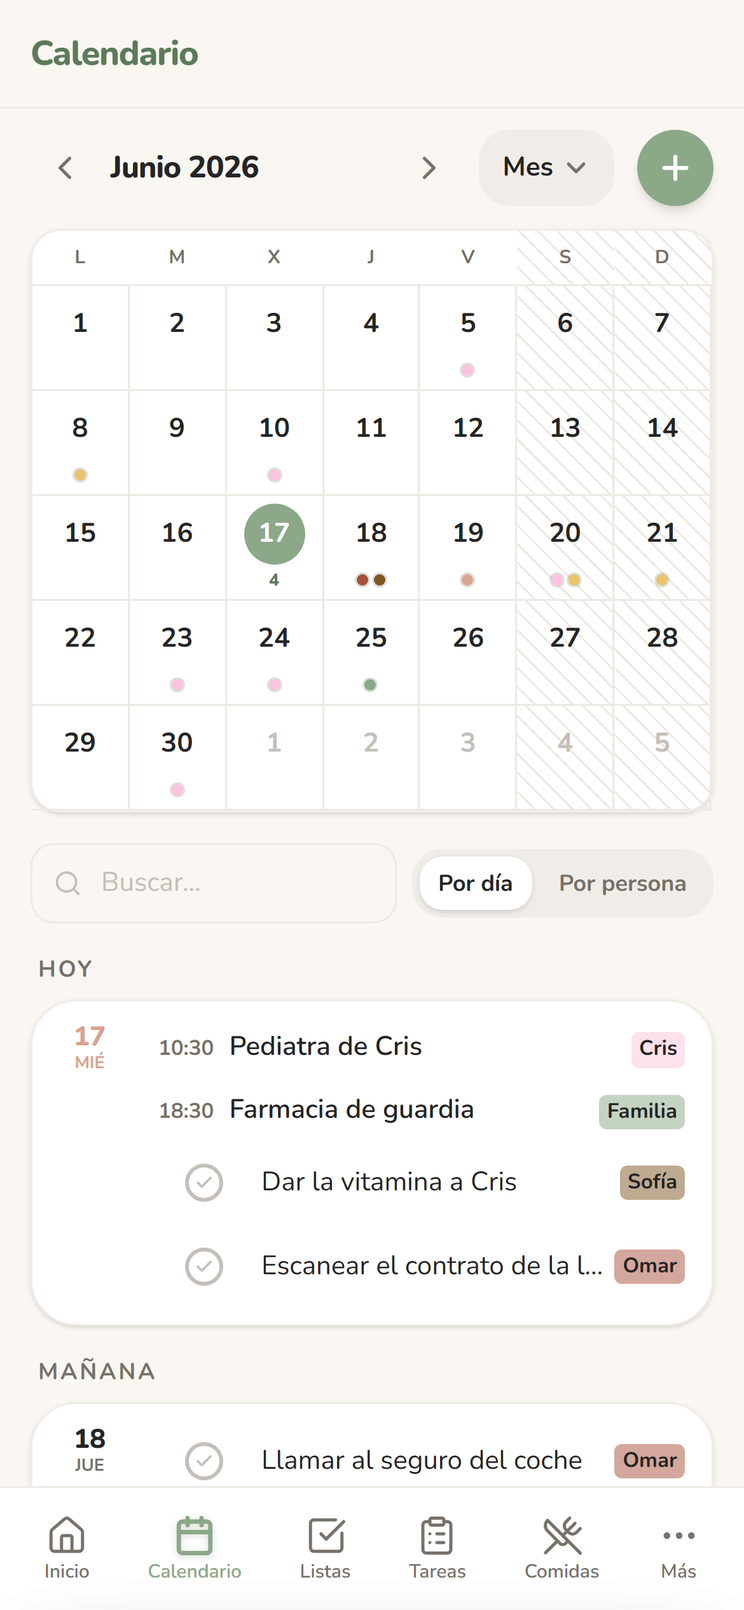
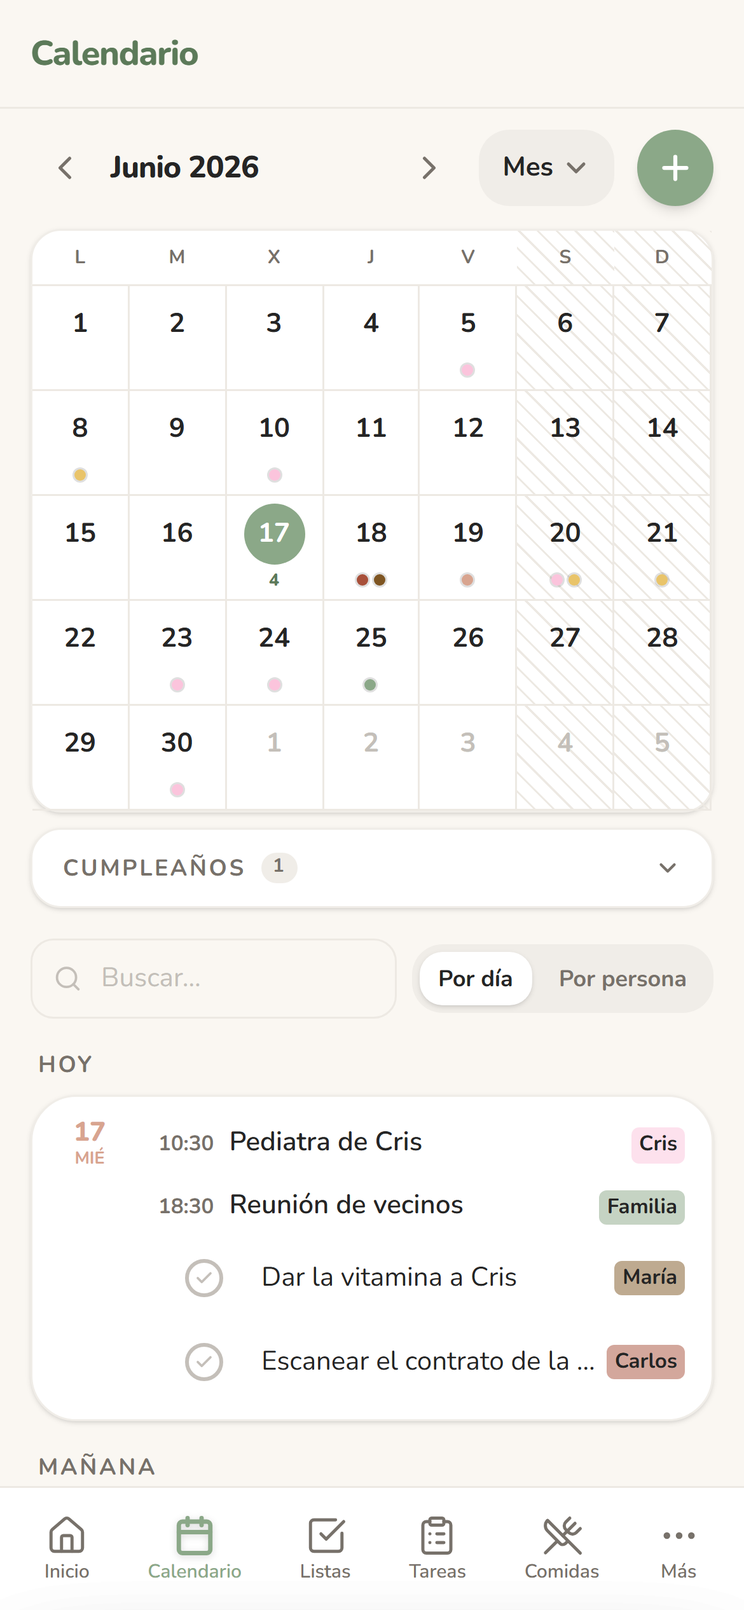
feat: la demo se llena de casa y la portada afina el texto
Repaso de detalle sobre la demo y la portada.

**Los adultos son Carlos y María**, no Omar y Sofía: el nombre del autor no
tiene por qué ser el de la familia de ejemplo.

**Las listas vuelven a ser de cosas.** Al rellenarlas de casa se colaron
tareas dentro («sacar la basura», «ordenar el trastero», «renovar el DNI»),
y una lista con eso dentro es una lista de tareas mal puesta. Ahora son
objetos: bolsas de basura, papel de cocina, pilas, tacos y tornillos. La
lista «Papeleo», que era toda tareas, pasa a ser «Regalos».

**La farmacia de guardia no era un plan de agenda**: es donde vas cuando
hace falta, no algo que se apunta a las 18:30. En su sitio, una reunión de
vecinos.

**Hay un cumpleaños en la demo** (la abuela Marisa, el 22 de junio). El
bloque de cumpleaños de Inicio no tenía datos y por eso no se pintaba nunca:
esa parte de la app no se veía ni usando el modo demo.

**La captura de Comidas es la vista semanal.** En «Hoy» se parecía a
cualquier otra lista; la parrilla de la semana es lo que aporta forma
distinta a la rejilla de la portada.

Y cuatro retoques de texto:

- «cuatro pantallas» decía la sección, y son seis.
- «sin decidirlo cada día a las dos» ahora dice **a las dos de la tarde**.
- Finanzas se cuenta como **planificación y no como contabilidad**: primero
  se decide cuánto queréis gastar y después la app dice cuánto lleváis.
  Poner el gasto por delante lo convertía en un libro de cuentas.
[…]

diff --git a/src/lib/store/db.ts b/src/lib/store/db.ts
@@ -23,12 +23,12 @@ interface DB {
 
 export const db: DB = {
   families: [
-    { id: 'f1', name: 'Familia de Omar, Sofía y Cris', meal_slots: [...ALL_MEAL_SLOTS], created_at: '2026-06-01T00:00:00', updated_at: '2026-06-17T08:00:00' },
+    { id: 'f1', name: 'Familia de Carlos, María y Cris', meal_slots: [...ALL_MEAL_SLOTS], created_at: '2026-06-01T00:00:00', updated_at: '2026-06-17T08:00:00' },
   ],
 
   members: [
-    { id: 'm1', family_id: 'f1', user_id: 'u1', display_name: 'Omar',  avatar_url: null, color: null, role: 'admin',  created_at: '2026-06-01T00:00:00' },
-    { id: 'm2', family_id: 'f1', user_id: 'u2', display_name: 'Sofía', avatar_url: null, color: null, role: 'member', created_at: '2026-06-01T00:00:00' },
+    { id: 'm1', family_id: 'f1', user_id: 'u1', display_name: 'Carlos', avatar_url: null, color: null, role: 'admin',  created_at: '2026-06-01T00:00:00' },
+    { id: 'm2', family_id: 'f1', user_id: 'u2', display_name: 'María', avatar_url: null, color: null, role: 'member', created_at: '2026-06-01T00:00:00' },
   ],
 
   invites: [],
@@ -42,13 +42,14 @@ export const db: DB = {
     { id: 'e02', family_id: 'f1', child_id: null, member_id: null, title: 'ITV del coche',                description: 'Llevar el permiso y el seguro',        start_at: '2026-06-08T09:15:00', end_at: null, all_day: false, kind: 'evento' as const, color: '#E9C46A', birth_year: null, recurrence_group_id: null, created_by: 'u1', created_at: '2026-06-05T13:00:00', updated_at: '2026-06-05T13:00:00' },
     { id: 'e03', family_id: 'f1', child_id: '1', member_id: null,  title: 'Dentista', description: 'Limpieza, la de todos los años',     start_at: '2026-06-10T12:00:00', end_at: null, all_day: false, kind: 'evento' as const, color: null,      birth_year: null, recurrence_group_id: null, created_by: 'u2', created_at: '2026-06-07T09:00:00', updated_at: '2026-06-07T09:00:00' },
     { id: 'e04', family_id: 'f1', child_id: '1', member_id: null,  title: 'Pediatra de Cris',              description: 'Peso, ombligo y dudas de sueño',   start_at: '2026-06-17T10:30:00', end_at: null, all_day: false, kind: 'evento' as const, color: null,      birth_year: null, recurrence_group_id: null, created_by: 'u1', created_at: '2026-06-12T20:00:00', updated_at: '2026-06-12T20:00:00' },
-    { id: 'e05', family_id: 'f1', child_id: null, member_id: null, title: 'Farmacia de guardia',           description: 'Recoger vitamina D',               start_at: '2026-06-17T18:30:00', end_at: null, all_day: false, kind: 'evento' as const, color: '#8BA888', birth_year: null, recurrence_group_id: null, created_by: 'u1', created_at: '2026-06-16T21:00:00', updated_at: '2026-06-16T21:00:00' },
+    { id: 'e05', family_id: 'f1', child_id: null, member_id: null, title: 'Reunión de vecinos',            description: 'En el portal, lo del ascensor',               start_at: '2026-06-17T18:30:00', end_at: null, all_day: false, kind: 'evento' as const, color: '#8BA888', birth_year: null, recurrence_group_id: null, created_by: 'u1', created_at: '2026-06-16T21:00:00', updated_at: '2026-06-16T21:00:00' },
     { id: 'e06', family_id: 'f1', child_id: null, member_id: null, title: 'Abuelos vienen a merendar',     description: 'Visita corta, traer bizcocho',     start_at: '2026-06-19T17:30:00', end_at: null, all_day: false, kind: 'evento' as const, color: '#D8A48F', birth_year: null, recurrence_group_id: null, created_by: 'u2', created_at: '2026-06-15T11:00:00', updated_at: '2026-06-15T11:00:00' },
     { id: 'e07', family_id: 'f1', child_id: '1', member_id: null,  title: 'Cena con Marta y Javi',        description: 'En casa, traen ellos el postre',            start_at: '2026-06-20T09:30:00', end_at: null, all_day: false, kind: 'evento' as const, color: null,      birth_year: null, recurrence_group_id: null, created_by: 'u1', created_at: '2026-06-16T08:30:00', updated_at: '2026-06-16T08:30:00' },
     { id: 'e08', family_id: 'f1', child_id: null, member_id: null, title: 'Compra grande online',          description: 'La compra de la semana y cosas de casa', start_at: '2026-06-21T11:00:00', end_at: null, all_day: false, kind: 'evento' as const, color: '#E9C46A', birth_year: null, recurrence_group_id: null, created_by: 'u1', created_at: '2026-06-16T19:00:00', updated_at: '2026-06-16T19:00:00' },
     { id: 'e09', family_id: 'f1', child_id: '1', member_id: null,  title: 'Recoger el paquete',            description: 'En la oficina de correos, antes de las 14:00',       start_at: '2026-06-23T11:45:00', end_at: null, all_day: false, kind: 'evento' as const, color: null,      birth_year: null, recurrence_group_id: null, created_by: 'u2', created_at: '2026-06-17T08:00:00', updated_at: '2026-06-17T08:00:00' },
     { id: 'e10', family_id: 'f1', child_id: null, member_id: null, title: 'Renovar el seguro del coche',  description: 'Mirar si compensa cambiar de compañía',         start_at: '2026-06-25T09:00:00', end_at: null, all_day: false, kind: 'evento' as const, color: '#8BA888', birth_year: null, recurrence_group_id: null, created_by: 'u1', created_at: '2026-06-17T08:05:00', updated_at: '2026-06-17T08:05:00' },
     { id: 'e11', family_id: 'f1', child_id: '1', member_id: null,  title: 'Control de peso de Cris',              description: 'Consulta de enfermería pediátrica', start_at: '2026-06-30T10:15:00', end_at: null, all_day: false, kind: 'evento' as const, color: null,      birth_year: null, recurrence_group_id: null, created_by: 'u1', created_at: '2026-06-17T08:10:00', updated_at: '2026-06-17T08:10:00' },
+    { id: 'e13', family_id: 'f1', child_id: null, member_id: null, title: 'Cumpleaños de la abuela Marisa', description: 'Comemos en su casa',           start_at: '2026-06-22T00:00:00', end_at: null, all_day: true, kind: 'cumple' as const,   color: '#D8A48F', birth_year: 1958, recurrence_group_id: null, created_by: 'u2', created_at: '2026-06-17T08:20:00', updated_at: '2026-06-17T08:20:00' },
     { id: 'e12', family_id: 'f1', child_id: null, member_id: null, title: 'Cumplemes de Cris',              description: 'Primer mes en casa',               start_at: '2026-07-03T00:00:00', end_at: null, all_day: true, kind: 'evento' as const,  color: '#D8A48F', birth_year: null, recurrence_group_id: null, created_by: 'u2', created_at: '2026-06-17T08:15:00', updated_at: '2026-06-17T08:15:00' },
   ],
 
@@ -67,7 +68,7 @@ export const db: DB = {
     { id: 'l1', family_id: 'f1', name: 'Compra',          emoji: '🛒', color: null, created_by: 'u1', created_at: '2026-06-05T00:00:00', updated_at: '2026-06-17T08:00:00' },
     { id: 'l2', family_id: 'f1', name: 'Farmacia',        emoji: '💊', color: null, created_by: 'u1', created_at: '2026-06-05T00:00:00', updated_at: '2026-06-17T08:00:00' },
     { id: 'l3', family_id: 'f1', name: 'Casa',            emoji: '🧺', color: null, created_by: 'u2', created_at: '2026-06-05T00:00:00', updated_at: '2026-06-17T08:00:00' },
-    { id: 'l4', family_id: 'f1', name: 'Papeleo',         emoji: '📋', color: null, created_by: 'u1', created_at: '2026-06-08T00:00:00', updated_at: '2026-06-17T08:00:00' },
+    { id: 'l4', family_id: 'f1', name: 'Regalos',         emoji: '🎁', color: null, created_by: 'u1', created_at: '2026-06-08T00:00:00', updated_at: '2026-06-17T08:00:00' },
     { id: 'l5', family_id: 'f1', name: 'Limpieza',        emoji: '🧽', color: null, created_by: 'u2', created_at: '2026-06-09T00:00:00', updated_at: '2026-06-17T08:00:00' },
     { id: 'l6', family_id: 'f1', name: 'Bricolaje',       emoji: '🔧', color: null, created_by: 'u1', created_at: '2026-06-09T00:00:00', updated_at: '2026-06-17T08:00:00' },
   ],
@@ -80,12 +81,12 @@ export const db: DB = {
     { id: 'li5',  list_id: 'l2', family_id: 'f1', text: 'Vitamina de Cris',             quantity: 1, completed: false, completed_at: null,                  completed_by: null, sort_order: 0, created_by: 'u2', created_at: '2026-06-16T00:00:00' },
     { id: 'li6',  list_id: 'l2', family_id: 'f1', text: 'Suero fisiológico monodosis',  quantity: 4, completed: false, completed_at: null,                  completed_by: null, sort_order: 1, created_by: 'u1', created_at: '2026-06-16T00:00:00' },
     { id: 'li7',  list_id: 'l2', family_id: 'f1', text: 'Gasas estériles',              quantity: 1, completed: true,  completed_at: '2026-06-15T12:00:00', completed_by: 'u1', sort_order: 2, created_by: 'u1', created_at: '2026-06-15T00:00:00' },
-    { id: 'li8',  list_id: 'l3', family_id: 'f1', text: 'Bajar la ropa del tendedero',  quantity: 1, completed: false, completed_at: null,                  completed_by: null, sort_order: 0, created_by: 'u2', created_at: '2026-06-16T00:00:00' },
-    { id: 'li9',  list_id: 'l3', family_id: 'f1', text: 'Ordenar el trastero',          quantity: 1, completed: false, completed_at: null,                  completed_by: null, sort_order: 1, created_by: 'u1', created_at: '2026-06-16T00:00:00' },
-    { id: 'li10', list_id: 'l3', family_id: 'f1', text: 'Sacar la basura',              quantity: 1, completed: true,  completed_at: '2026-06-17T07:30:00', completed_by: 'u1', sort_order: 2, created_by: 'u1', created_at: '2026-06-17T00:00:00' },
-    { id: 'li11', list_id: 'l4', family_id: 'f1', text: 'Escanear el seguro del coche', quantity: 1, completed: false, completed_at: null,                  completed_by: null, sort_order: 0, created_by: 'u1', created_at: '2026-06-17T00:00:00' },
-    { id: 'li12', list_id: 'l4', family_id: 'f1', text: 'Renovar el DNI',               quantity: 1, completed: false, completed_at: null,                  completed_by: null, sort_order: 1, created_by: 'u1', created_at: '2026-06-17T00:00:00' },
-    { id: 'li13', list_id: 'l4', family_id: 'f1', text: 'Guardar la factura de la caldera', quantity: 1, completed: true, completed_at: '2026-06-10T18:00:00', completed_by: 'u2', sort_order: 2, created_by: 'u2', created_at: '2026-06-09T00:00:00' },
+    { id: 'li8',  list_id: 'l3', family_id: 'f1', text: 'Bolsas de basura',             quantity: 1, completed: false, completed_at: null,                  completed_by: null, sort_order: 0, created_by: 'u2', created_at: '2026-06-16T00:00:00' },
+    { id: 'li9',  list_id: 'l3', family_id: 'f1', text: 'Papel de cocina',              quantity: 2, completed: false, completed_at: null,                  completed_by: null, sort_order: 1, created_by: 'u1', created_at: '2026-06-16T00:00:00' },
+    { id: 'li10', list_id: 'l3', family_id: 'f1', text: 'Pilas AA',                     quantity: 4, completed: true,  completed_at: '2026-06-17T07:30:00', completed_by: 'u1', sort_order: 2, created_by: 'u1', created_at: '2026-06-17T00:00:00' },
+    { id: 'li11', list_id: 'l4', family_id: 'f1', text: 'Regalo del cumple de la abuela', quantity: 1, completed: false, completed_at: null,                  completed_by: null, sort_order: 0, created_by: 'u1', created_at: '2026-06-17T00:00:00' },
+    { id: 'li12', list_id: 'l4', family_id: 'f1', text: 'Papel de regalo',              quantity: 1, completed: false, completed_at: null,                  completed_by: null, sort_order: 1, created_by: 'u1', created_at: '2026-06-17T00:00:00' },
+    { id: 'li13', list_id: 'l4', family_id: 'f1', text: 'Velas de tarta',            quantity: 1, completed: true, completed_at: '2026-06-10T18:00:00', completed_by: 'u2', sort_order: 2, created_by: 'u2', created_at: '2026-06-09T00:00:00' },
     { id: 'li14', list_id: 'l5', family_id: 'f1', text: 'Recambios del aspirador',       quantity: 1, completed: false, completed_at: null,                  completed_by: null, sort_order: 0, created_by: 'u2', created_at: '2026-06-17T00:00:00' },
     { id: 'li15', list_id: 'l5', family_id: 'f1', text: 'Limpiacristales',              quantity: 1, completed: false, completed_at: null,                  completed_by: null, sort_order: 1, created_by: 'u2', created_at: '2026-06-17T00:00:00' },
     { id: 'li16', list_id: 'l5', family_id: 'f1', text: 'Bayetas de microfibra',        quantity: 1, completed: true,  completed_at: '2026-06-16T10:00:00', completed_by: 'u1', sort_order: 2, created_by: 'u1', created_at: '2026-06-15T00:00:00' },
@@ -148,6 +149,6 @@ export const db: DB = {
     { id: 'd2', family_id: 'f1', child_id: '1', member_id: null,  name: 'Cartilla de salud de Cris',     description: 'Revisiones y vacunas',            category: 'salud',    storage_path: 'mock/cartilla-salud-cris.pdf', storage_provider: 'google_drive', storage_owner: 'u1',    mime_type: 'application/pdf', size_bytes: 245760, expires_on: null, created_by: 'u2', created_at: '2026-06-05T13:30:00', updated_at: '2026-06-05T13:30:00' },
     { id: 'd3', family_id: 'f1', child_id: null, member_id: null, name: 'Seguro del coche',              description: 'Póliza y recibo'    ,             category: 'personal', storage_path: 'mock/seguro-coche.pdf', storage_provider: 'google_drive', storage_owner: 'u1',       mime_type: 'application/pdf', size_bytes: 286720, expires_on: null, created_by: 'u1', created_at: '2026-06-10T18:00:00', updated_at: '2026-06-10T18:00:00' },
     { id: 'd4', family_id: 'f1', child_id: null, member_id: null, name: 'Libro de familia',              description: null,                              category: 'personal', storage_path: 'mock/libro-familia.pdf', storage_provider: 'google_drive', storage_owner: 'u1',         mime_type: 'application/pdf', size_bytes: 512000, expires_on: null, created_by: 'u1', created_at: '2026-06-11T10:00:00', updated_at: '2026-06-11T10:00:00' },
-    { id: 'd5', family_id: 'f1', child_id: null, member_id: null, name: 'DNI Omar',                      description: 'Documento de Omar',               category: 'personal', storage_path: 'mock/dni-omar.jpg', storage_provider: 'google_drive', storage_owner: 'u1',              mime_type: 'image/jpeg',      size_bytes: 132096, expires_on: '2026-08-20', created_by: 'u1', created_at: '2026-06-01T00:00:00', updated_at: '2026-06-01T00:00:00' },
+    { id: 'd5', family_id: 'f1', child_id: null, member_id: null, name: 'DNI de Carlos',                 description: 'Caduca este verano',               category: 'personal', storage_path: 'mock/dni-carlos.jpg', storage_provider: 'google_drive', storage_owner: 'u1',              mime_type: 'image/jpeg',      size_bytes: 132096, expires_on: '2026-08-20', created_by: 'u1', created_at: '2026-06-01T00:00:00', updated_at: '2026-06-01T00:00:00' },
   ],
 }

diff --git a/src/components/landing/LandingPage.tsx b/src/components/landing/LandingPage.tsx
@@ -5,12 +5,12 @@ import {
   FileText,
   ListChecks,
   NotebookText,
-  ShieldCheck,
   Smartphone,
   UtensilsCrossed,
   Wallet,
 } from 'lucide-react'
 import { AuthCard } from '@/components/auth/AuthCard'
+import { Garantias } from '@/components/ui/Garantias'
 import { DayIllustration } from '@/components/home/DayIllustration'
 import { getDayPeriodFromHour } from '@/lib/date-utils'
 
@@ -50,13 +50,10 @@ const INCLINACION = ['lg:-rotate-[1.1deg]', 'lg:rotate-[0.9deg]', 'lg:rotate-[0.
  * hay en la página fuera de los botones. Va en las siete por igual —dentro y
  * fuera de bloque—, que es lo que las hace parecer hermanas.
  */
-function TituloSeccion({ id, encima, children }: { id?: string; encima?: string; children: React.ReactNode }) {
+function TituloSeccion({ id, children }: { id?: string; children: React.ReactNode }) {
   return (
     <div className="mb-5">
       <span aria-hidden className="mb-3 block h-1 w-9 rounded-full bg-primary" />
-      {encima && (
-        <p className="mb-2 text-[11px] font-bold uppercase tracking-[0.18em] text-muted-soft">{encima}</p>
-      )}
       <h2 id={id} className={TITULO}>{children}</h2>
     </div>
   )
@@ -112,8 +109,8 @@ const CAPTURAS = [
   { archivo: 'inicio',     titulo: 'Inicio',      texto: 'Lo de hoy: lo que hay, lo que falta y lo que se come.' },
   { archivo: 'calendario', titulo: 'El mes',      texto: 'Los días con algo apuntado, y el de hoy abierto debajo.' },
   { archivo: 'listas',     titulo: 'Listas',      texto: 'La compra y lo de casa, en marcha desde cualquier móvil.' },
-  { archivo: 'comidas',    titulo: 'Comidas',     texto: 'El menú de la semana, sin decidirlo cada día a las dos.' },
-  { archivo: 'finanzas',   titulo: 'Finanzas',    texto: 'El gasto del mes, los topes y quién ha puesto cuánto.' },
+  { archivo: 'comidas',    titulo: 'Comidas',     texto: 'El menú de la semana, sin decidirlo cada día a las dos de la tarde.' },
+  { archivo: 'finanzas',   titulo: 'Finanzas',    texto: 'Lo que decidisteis gastar, lo que lleváis y quién ha puesto qué.' },
   { archivo: 'documentos', titulo: 'Documentos',  texto: 'El seguro, la cartilla, el libro de familia. Y qué caduca.' },
 ]
 
@@ -146,12 +143,12 @@ const FUNCIONES = [
   {
     icon: UtensilsCrossed,
     titulo: 'Comidas',
-    texto: 'El menú de la semana, para no decidirlo cada día a las dos.',
+    texto: 'El menú de la semana, para no decidirlo cada día a las dos de la tarde.',
   },
   {
     icon: Wallet,
     titulo: 'Finanzas',
-    texto: 'El gasto del mes por categorías, quién ha puesto cuánto y los presupuestos que os pasan de fuera.',
+    texto: 'Decidís cuánto queréis gastar al mes en cada cosa y la app va diciendo cuánto lleváis, quién ha puesto qué y si os estáis pasando. Los presupuestos que os pasan de fuera se guardan al lado, para compararlos antes de decidir.',
   },
   {
     icon: NotebookText,
@@ -301,22 +298,7 @@ export function LandingPage() {
                 todo junto y a un vistazo.
               </p>
 
-              {/* Quien llega de fuera tiene una pregunta antes que ninguna otra
-                  —quién ve mis cosas— y estaba contestada en las Preguntas, a
-                  tres mil píxeles de aquí. Tres palabras arriba valen más que un
-                  párrafo abajo. Los puntos son `span` aparte y no parte del
-                  texto: así el lector de pantalla lee tres cosas y no una frase
-                  con puntos en medio. */}
-              <ul className="mt-5 flex flex-wrap items-center gap-x-3 gap-y-1 text-sm font-semibold text-ink">
-                <li className="inline-flex items-center gap-1.5">
-                  <ShieldCheck size={15} strokeWidth={2.4} className="text-primary-strong" />
-                  Privado para tu familia
-                </li>
-                <li aria-hidden className="text-muted-soft">·</li>
-                <li>Gratis</li>
-                <li aria-hidden className="text-muted-soft">·</li>
-                <li>Sin anuncios</li>
-              </ul>
+              <Garantias className="mt-5" />
             </div>
           </div>
         </section>
@@ -343,7 +325,7 @@ export function LandingPage() {
           <section id="asi-se-ve" className={`scroll-mt-20 bg-surface ${BLOQUE}`}>
             <TituloSeccion>Así se ve</TituloSeccion>
             <p className="mt-3 max-w-xl text-sm leading-relaxed text-muted">
-              No son maquetas: son cuatro pantallas de <Marca /> tal cual se ven, con la familia de
+              No son maquetas: son seis pantallas de <Marca /> tal cual se ven, con la familia de
               ejemplo que trae la app.
             </p>
 
@@ -469,7 +451,7 @@ export function LandingPage() {
               que hace que esto no parezca escrito por una máquina es justo lo que
               un corrector querría arreglar. */}
           <section className={`border border-line bg-warm ${BLOQUE}`}>
-            <TituloSeccion encima="Una nota de quien la hizo">Por qué existe Farpi</TituloSeccion>
+            <TituloSeccion>Por qué existe Farpi</TituloSeccion>
 
             <div className="max-w-xl space-y-4 text-[0.9375rem] leading-[1.75] text-muted">
               <p>

diff --git a/e2e/runtime.spec.ts b/e2e/runtime.spec.ts
@@ -187,17 +187,19 @@ test('un evento se puede asignar a un adulto y se ve quién es', async ({ page }
 
   const dialogo = page.getByRole('dialog', { name: 'Apuntar en el calendario' })
   await expect(dialogo.getByRole('button', { name: 'Familia', exact: true })).toBeVisible()
-  await expect(dialogo.getByRole('button', { name: 'Omar', exact: true })).toBeVisible()
+  await expect(dialogo.getByRole('button', { name: 'Carlos', exact: true })).toBeVisible()
 
-  await page.locator('#event-title').fill('Dentista')
-  await dialogo.getByRole('button', { name: 'Sofía', exact: true }).click()
+  // Un título que no exista ya en la demo: desde que hay un "Dentista" apuntado
+  // el 10 de junio, buscar por ese nombre engancharía los dos.
+  await page.locator('#event-title').fill('Fisioterapeuta')
+  await dialogo.getByRole('button', { name: 'María', exact: true }).click()
   await page.getByRole('button', { name: 'Apuntar', exact: true }).click()
 
   // En la agenda, el evento aparece con el nombre de la persona asignada.
   // (En la celda del día también, pero ahí es un tooltip que solo se ve al pasar
   // el ratón, así que no sirve para comprobarlo.)
-  await expect(page.getByRole('button', { name: /Dentista/ })).toBeVisible()
-  await expect(page.getByRole('button', { name: /Dentista.*Sofía/ })).toBeVisible()
+  await expect(page.getByRole('button', { name: /Fisioterapeuta/ })).toBeVisible()
+  await expect(page.getByRole('button', { name: /Fisioterapeuta.*María/ })).toBeVisible()
 })
 
 // Vacaciones: un evento de varios días. Cubre que el formulario cambia de forma
@@ -395,13 +397,13 @@ test('una tarea se puede asignar a alguien y se ve de quién es', async ({ page 
   await page.getByRole('button', { name: 'Nueva tarea' }).click()
   const sheet = page.getByRole('dialog', { name: 'Nueva tarea' })
   await page.locator('#task-title').fill('Regar las plantas')
-  await sheet.getByRole('button', { name: 'Sofía' }).click()
+  await sheet.getByRole('button', { name: 'María' }).click()
   await page.getByRole('button', { name: 'Crear tarea' }).click()
   await page.waitForTimeout(400)
 
   // La tarea aparece con el nombre de quien la lleva.
   const fila = page.locator('div').filter({ hasText: /^Regar las plantas/ }).first()
-  await expect(fila).toContainText('Sofía')
+  await expect(fila).toContainText('María')
 })
 
 // Con el tiempo la lista se hace larga y "¿apunté lo de la vitamina?" solo se
@@ -466,7 +468,7 @@ test('las notas fijadas salen las primeras', async ({ page }) => {
 })
 
 // Un papel caducado no avisa por su cuenta: el DNI vale hasta que un día no
-// vale. En la demo, el DNI de Omar caduca el 20 de agosto de 2026.
+// vale. En la demo, el DNI de Carlos caduca el 20 de agosto de 2026.
 test('un documento con caducidad lo dice en su tarjeta', async ({ page }) => {
   await page.goto('/docs')
   await page.waitForTimeout(700)
@@ -668,7 +670,7 @@ test('un descanso marca todos los días de su rango', async ({ page }) => {
 
   await page.locator('#event-date').fill('2026-08-11')
   await page.locator('#event-end-date').fill('2026-08-12')
-  await page.getByRole('button', { name: 'Sofía' }).click()
+  await page.getByRole('button', { name: 'María' }).click()
   await page.locator('button[type="submit"][form="event-form"]').click()
   await page.waitForTimeout(600)
 
@@ -677,7 +679,7 @@ test('un descanso marca todos los días de su rango', async ({ page }) => {
 
   // Y una vez en el bloque, con nombre y fechas: dos días no son dos filas.
   await abrirBloque(page, 'Vacaciones y descansos')
-  await expect(page.getByRole('button', { name: /Sofía descansa/ })).toHaveCount(1)
+  await expect(page.getByRole('button', { name: /María descansa/ })).toHaveCount(1)
 })
 
 // Las unidades de un ítem se suben y se bajan **desde la propia fila**, sin abrir

diff --git a/e2e/smoke.spec.ts b/e2e/smoke.spec.ts
@@ -95,7 +95,7 @@ test('una familia creada se puede eliminar y la app vuelve a la anterior', async
   await dialog.getByRole('button', { name: 'Confirmar: se borra todo' }).click()
 
   await expect(page.getByText('Familia de prueba')).toHaveCount(0)
-  await expect(page.getByText('Familia de Omar, Sofía y Cris')).toBeVisible()
+  await expect(page.getByText('Familia de Carlos, María y Cris')).toBeVisible()
 })
 
 // El segundo eje de la agenda. Se prueba en el navegador y no en unitarios
@@ -112,7 +112,7 @@ test('la agenda se puede agrupar por persona', async ({ page }) => {
   await expect(porPersona).toHaveAttribute('aria-pressed', 'true')
 
   // Cada persona con algo es una sección con su nombre. La familia de demo
-  // tiene tareas repartidas, así que "Familia" y "Omar" tienen grupo propio.
+  // tiene tareas repartidas, así que "Familia" y "Carlos" tienen grupo propio.
   await expect(page.getByRole('region', { name: 'Agenda por persona' })).toBeVisible()
   await expect(page.getByRole('region', { name: 'Familia' })).toBeVisible()
 
@@ -121,8 +121,8 @@ test('la agenda se puede agrupar por persona', async ({ page }) => {
   // no en el de la familia, donde lo de todos nunca llevó etiqueta y la cuenta
   // daría uno aunque las filas siguieran diciendo el nombre. Contarlas, además,
   // porque buscar el texto tampoco valdría: el rótulo va en mayúsculas por CSS
-  // y una comparación con "Omar" pasaría sin mirar las filas.
-  await expect(page.getByRole('region', { name: 'Omar' }).locator('.etiqueta-persona')).toHaveCount(1)
+  // y una comparación con "Carlos" pasaría sin mirar las filas.
+  await expect(page.getByRole('region', { name: 'Carlos' }).locator('.etiqueta-persona')).toHaveCount(1)
 })
 
 // El botón de guardar del sheet del calendario, por lo que es y no por lo que

diff --git a/e2e/escritorio.spec.ts b/e2e/escritorio.spec.ts
@@ -113,7 +113,7 @@ test.describe('escritorio a 1440 px', () => {
     // El pie: el nombre de quien mira y Ajustes, que es el único camino a
     // Ajustes en escritorio. Es una fila y no un menú que abrir, así que se
     // comprueba que lleva directa a la pantalla, que abre en Familia.
-    await expect(lateral.getByText('Omar')).toBeVisible()
+    await expect(lateral.getByText('Carlos')).toBeVisible()
     await lateral.getByRole('link', { name: 'Ajustes' }).click()
     await expect(page).toHaveURL(/\/settings/)
     await expect(page.getByRole('tab', { name: 'Familia' })).toHaveAttribute('aria-selected', 'true')
@@ -202,7 +202,7 @@ test.describe('escritorio a 1440 px', () => {
     await page.locator('#event-kind').selectOption('descanso')
     await page.locator('#event-date').fill('2026-08-11')
     await page.locator('#event-end-date').fill('2026-08-12')
-    await page.getByRole('button', { name: 'Sofía' }).click()
+    await page.getByRole('button', { name: 'María' }).click()
     await page.locator(GUARDAR_EVENTO).click()
     await page.waitForTimeout(700)
 
@@ -216,9 +216,9 @@ test.describe('escritorio a 1440 px', () => {
 
     // Y el nombre sale una sola vez, en "Vacaciones y descansos", que nace
     // plegado: hasta que no se abre, del bloque solo se ve el título.
-    await expect(page.getByRole('button', { name: /Sofía descansa/ })).toHaveCount(0)
+    await expect(page.getByRole('button', { name: /María descansa/ })).toHaveCount(0)
     await abrirBloque(page, 'Vacaciones y descansos')
-    await expect(page.getByRole('button', { name: /Sofía descansa/ })).toHaveCount(1)
+    await expect(page.getByRole('button', { name: /María descansa/ })).toHaveCount(1)
   })
 
   // Un festivo se apunta como los otros tres tipos y se pinta en la celda con su

diff --git a/src/components/ui/Garantias.tsx b/src/components/ui/Garantias.tsx
@@ -1,0 +1,29 @@
+import { ShieldCheck } from 'lucide-react'
+
+/**
+ * Las tres cosas que pregunta quien llega de fuera antes que ninguna otra:
+ * quién ve mis datos, cuánto cuesta y si me van a poner anuncios.
+ *
+ * Sale **dos veces en la portada**, bajo el titular y bajo el formulario, y una
+ * en la pantalla de login. No es un descuido: son los dos sitios donde alguien
+ * está a punto de escribir su correo, y la respuesta tiene que estar donde se
+ * duda, no en un apartado más abajo. Antes vivía dentro de `AuthCard` como una
+ * frase de letra pequeña que no leía nadie.
+ *
+ * Los puntos son elementos aparte y marcados como decorativos: así quien usa un
+ * lector de pantalla oye tres cosas y no una frase con puntos en medio.
+ */
+export function Garantias({ className = '' }: { className?: string }) {
+  return (
+    <ul className={`flex flex-wrap items-center gap-x-3 gap-y-1 text-sm font-semibold text-ink ${className}`}>
+      <li className="inline-flex items-center gap-1.5">
+        <ShieldCheck size={15} strokeWidth={2.4} className="flex-shrink-0 text-primary-strong" />
+        Privado para tu familia
+      </li>
+      <li aria-hidden className="text-muted-soft">·</li>
+      <li>Gratis</li>
+      <li aria-hidden className="text-muted-soft">·</li>
+      <li>Sin anuncios</li>
+    </ul>
+  )
+}

diff --git a/src/components/auth/AuthCard.tsx b/src/components/auth/AuthCard.tsx
@@ -7,6 +7,7 @@ import { createClient, IS_DEMO_MODE } from '@/lib/supabase/client'
 import { isAuthProviderEnabled } from '@/lib/supabase/auth-providers'
 import { Button } from '@/components/ui/Button'
 import { Field } from '@/components/ui/Field'
+import { Garantias } from '@/components/ui/Garantias'
 
 export type AuthMode = 'signin' | 'signup'
 
@@ -320,9 +321,9 @@ export function AuthCard({ modoInicial }: { modoInicial: AuthMode }) {
         </div>
       )}
 
-      <p className="mt-5 text-center text-[11px] font-medium text-muted-soft">
-        Farpi es gratuito y privado para tu familia.
-      </p>
+      {/* Debajo del formulario, que es donde se duda: quien está a punto de
+          escribir su correo quiere saber quién lo va a ver y si esto cuesta. */}
+      <Garantias className="mt-5 justify-center" />
 
       <style jsx>{`
         .form-input {

diff --git a/docs/project-status.md b/docs/project-status.md
@@ -152,13 +152,21 @@ La app está en producción, en uso diario por la familia y probada en un móvil
   - **Las capturas, escalonadas y torcidas un pelín**, y se enderezan y levantan al pasar
     el ratón. Solo desde `lg:`, y anuladas con `motion-reduce`. Dos columnas en `lg` y
     tres en `xl`: a tres en un portátil de 1024 px los móviles no se leían.
-- **Los datos de demo son los de una casa, no los de un bebé** (01-09-2026). La hija se
-  llama **Cris** y sigue estando (su pediatra, su vitamina, su cartilla, su cumplemes),
+- **Los datos de demo son los de una casa, no los de un bebé** (01-09-2026). Los adultos
+  son **Carlos y María** y la hija se llama **Cris**; sigue estando (su pediatra, su vitamina, su cartilla, su cumplemes),
   pero alrededor hay lo que tiene cualquier casa: la ITV, el dentista, una cena con
   amigos, la lavadora, la basura, el seguro del coche, la gasolina, el bricolaje. Antes
   todo giraba alrededor del recién nacido y quien no tuviera hijos no se reconocía en
   las capturas de la portada, que es de donde salen. Cambiar esos textos obliga a tocar
   las comprobaciones de la suite que los buscan por su nombre y a regenerar las capturas.
+  Dos reglas que salieron de ahí: **las listas son de cosas y no de tareas** (una lista
+  con "sacar la basura" dentro es una lista de tareas mal puesta), y **lo que crea un
+  test no puede llamarse como algo de la demo**, porque el filtro por texto engancha los
+  dos y Playwright para por ambigüedad.
+- **Hay un cumpleaños en la demo** desde el 01-09-2026 (la abuela Marisa, el 22 de
+  junio): el bloque de cumpleaños de Inicio no tenía datos y no se pintaba nunca, así
+  que esa parte de la app no se veía ni usando el modo demo. Queda a 1.800 px del alto
+  de la pantalla, así que en la captura de la portada, que es de 844 px, no entra.
 - **El texto no lleva ni un guion largo** (01-09-2026). Se usaban a puñados para meter
   incisos y son de las cosas que delatan un texto escrito por una máquina. Van con
   comas, con paréntesis o partiendo la frase. En los comentarios del código se quedan:
